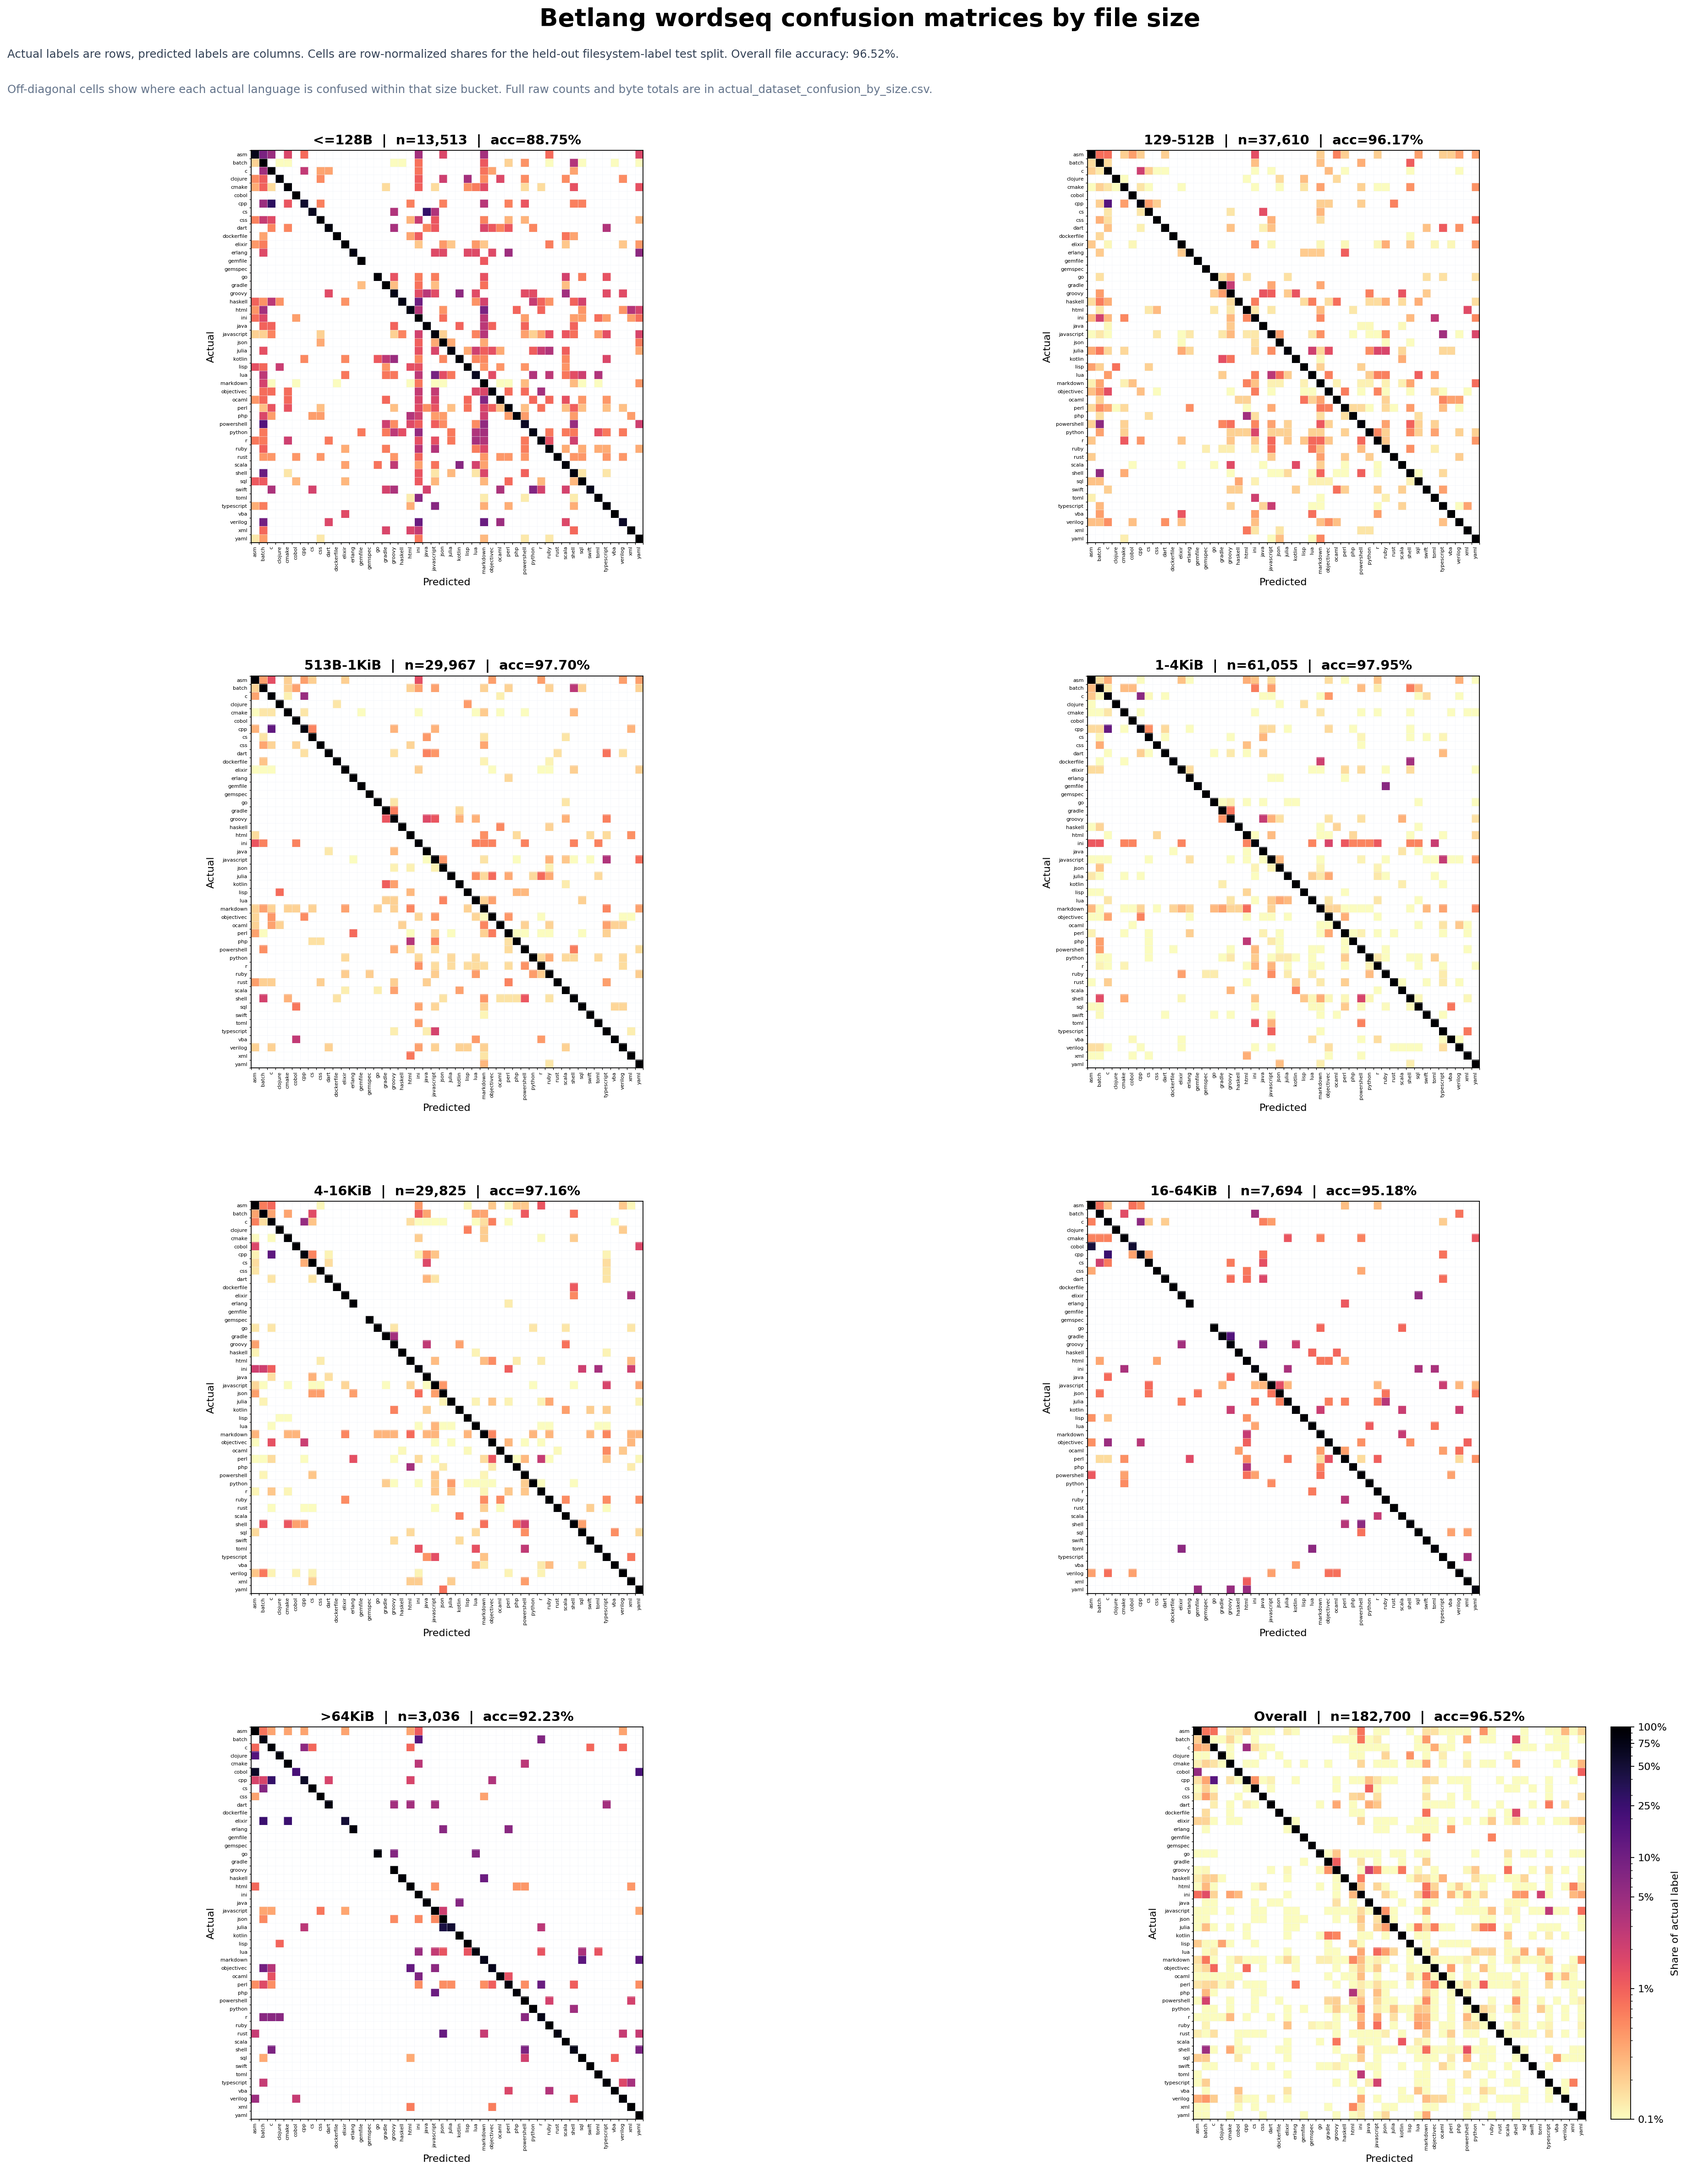
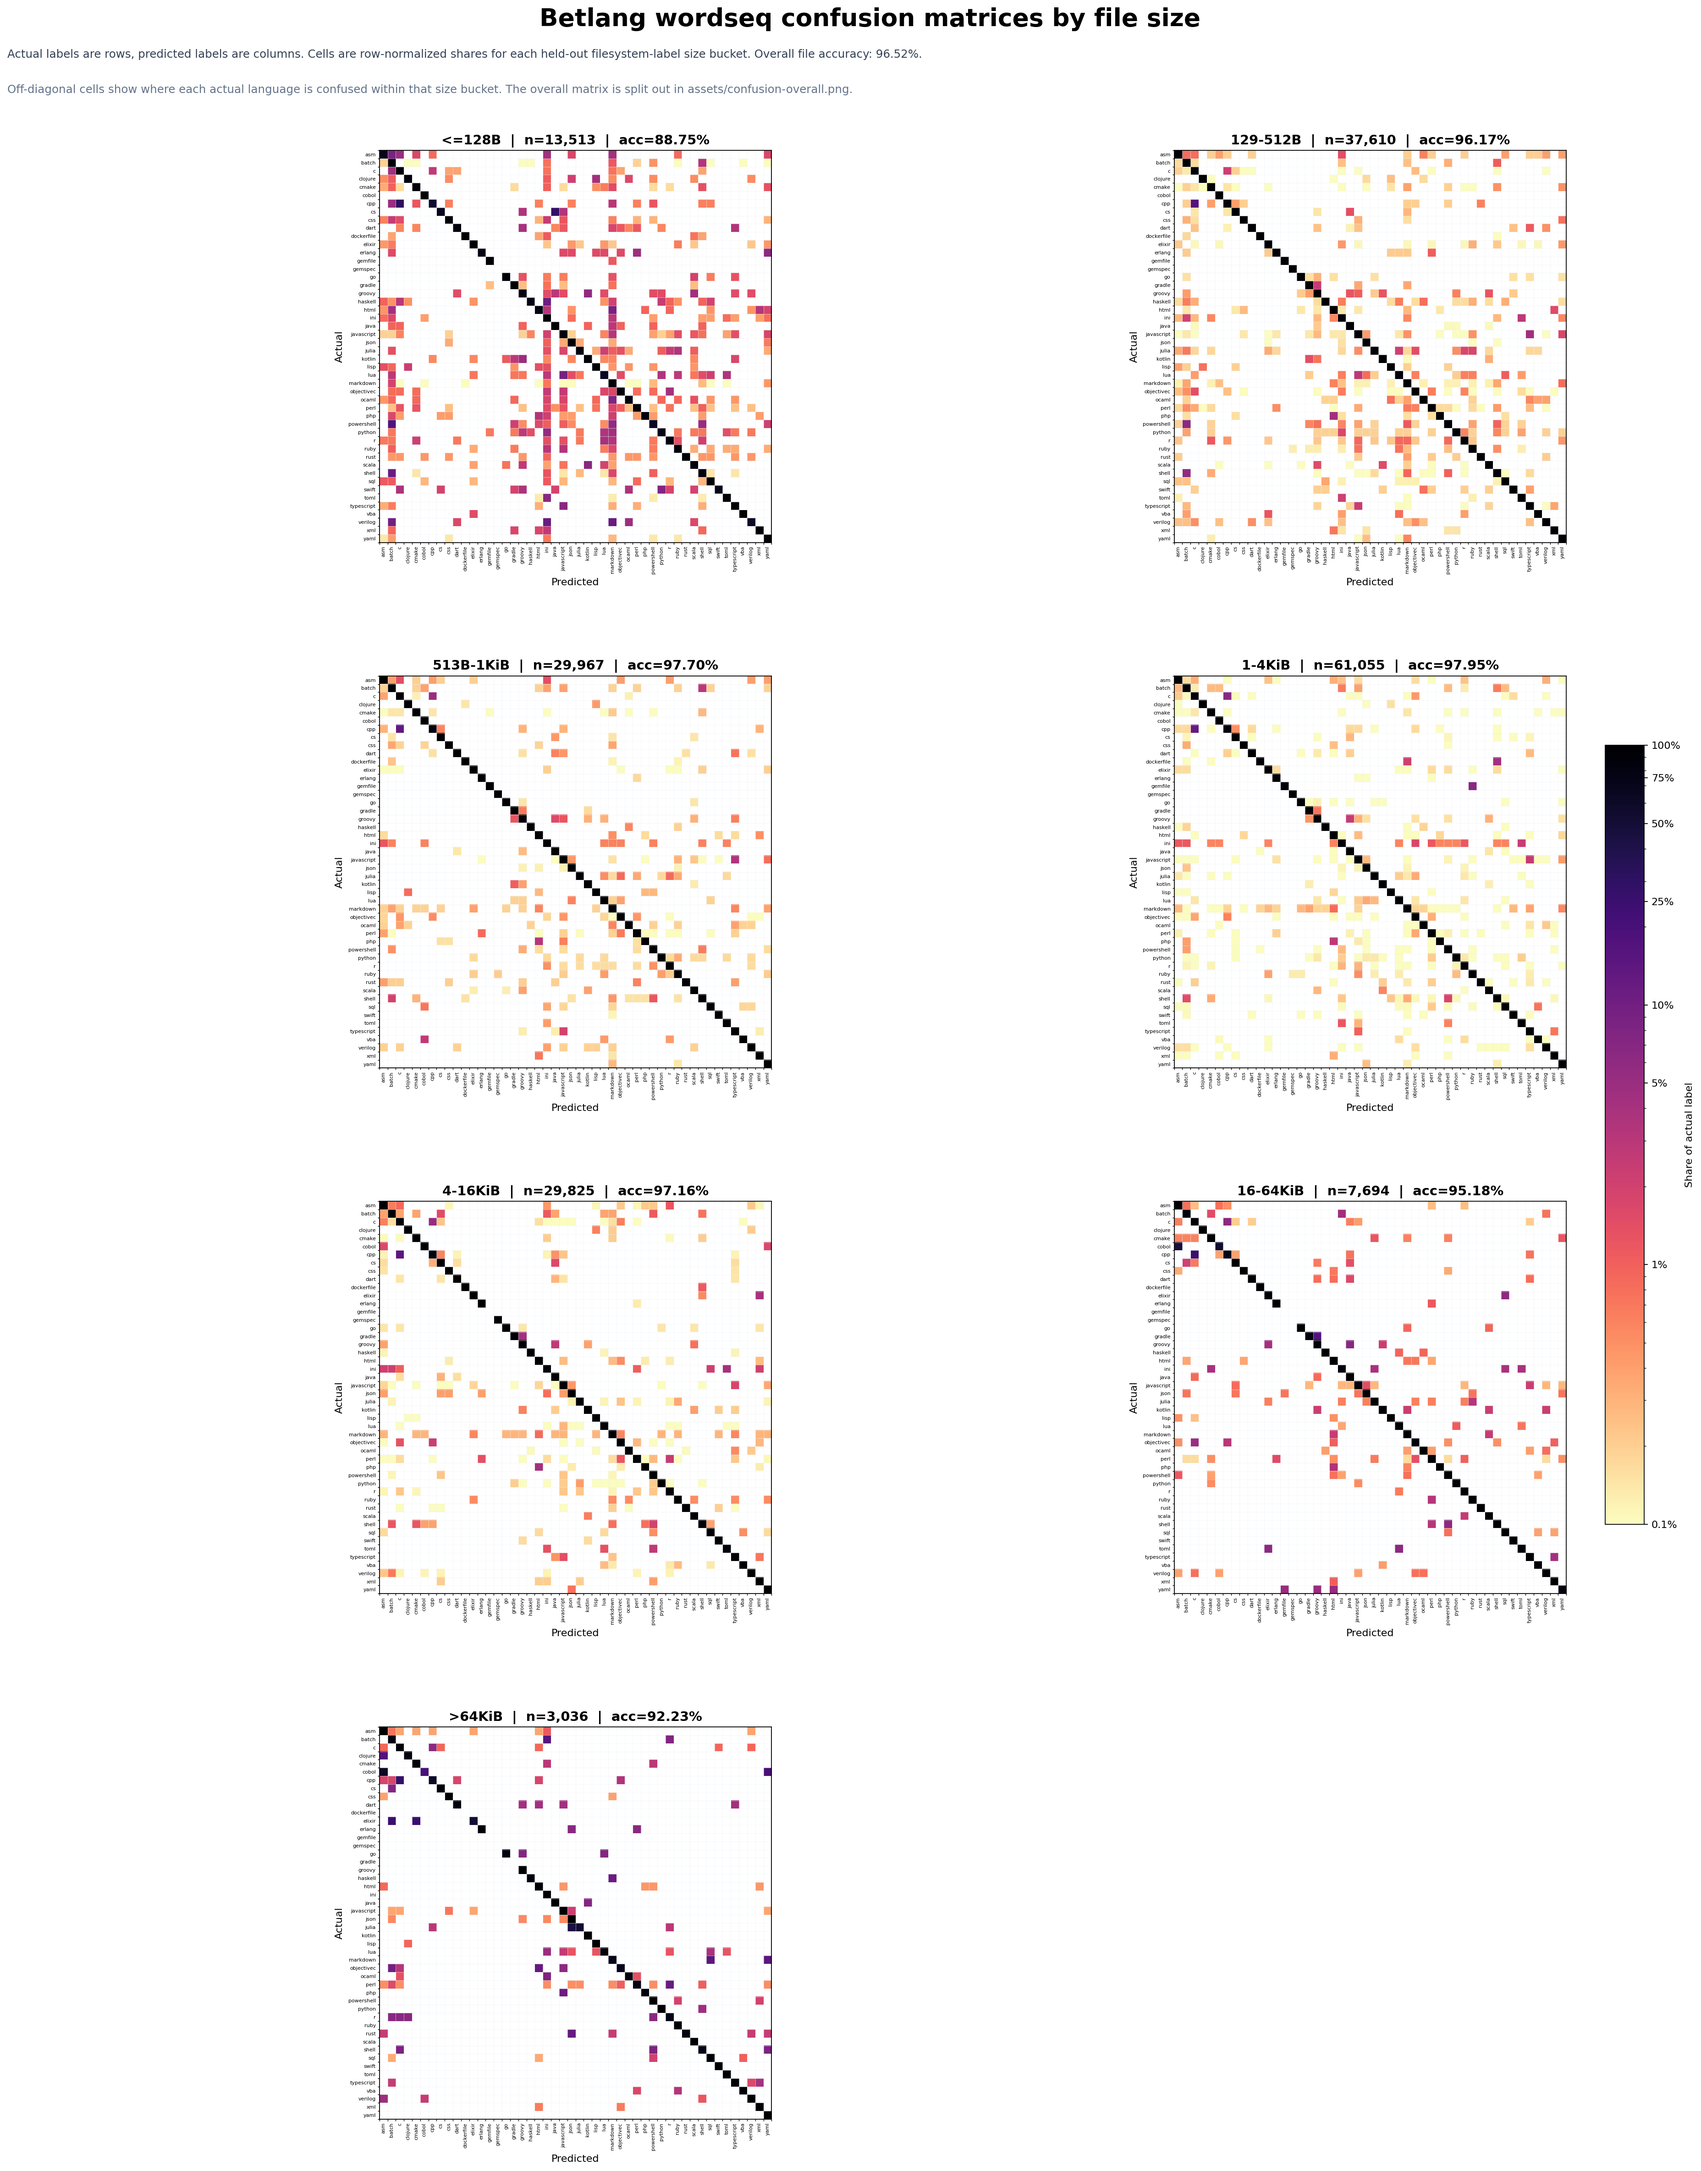
Split overall confusion matrix image

diff --git a/scripts/confusion_by_size.py b/scripts/confusion_by_size.py
@@ -620,56 +620,57 @@ def format_bytes(value: int) -> str:
     raise AssertionError
 
 
-def render_png(
-    path: Path,
-    matrices: list[np.ndarray],
-    labels: list[str],
-    fs_accuracy: float,
-) -> None:
+def plot_confusion_panel(ax, title: str, matrix: np.ndarray, labels: list[str], cmap) -> object:
+    row_sums = matrix.sum(axis=1, keepdims=True)
+    with np.errstate(divide="ignore", invalid="ignore"):
+        normalized = np.divide(
+            matrix,
+            row_sums,
+            out=np.zeros_like(matrix, dtype=np.float64),
+            where=row_sums != 0,
+        )
+    masked = np.ma.masked_where(normalized <= 0, normalized)
+    image = ax.imshow(masked, cmap=cmap, norm=LogNorm(vmin=0.001, vmax=1.0), interpolation="nearest")
+    total = int(matrix.sum())
+    acc = float(np.trace(matrix) / total) if total else 0.0
+    ax.set_title(f"{title}  |  n={total:,}  |  acc={acc * 100:.2f}%", fontsize=13, weight="bold")
+    ax.set_xticks(np.arange(len(labels)))
+    ax.set_yticks(np.arange(len(labels)))
+    ax.set_xticklabels(labels, rotation=90, fontsize=5)
+    ax.set_yticklabels(labels, fontsize=5)
+    ax.set_xlabel("Predicted", fontsize=10)
+    ax.set_ylabel("Actual", fontsize=10)
+    ax.set_xticks(np.arange(-0.5, len(labels), 1), minor=True)
+    ax.set_yticks(np.arange(-0.5, len(labels), 1), minor=True)
+    ax.grid(which="minor", color="#eef2f7", linewidth=0.25)
+    ax.tick_params(length=0)
+    return image
+
+
+def configure_colorbar(fig, image, axes) -> None:
+    cbar = fig.colorbar(image, ax=axes, fraction=0.025, pad=0.025)
+    cbar.set_label("Share of actual label", fontsize=10)
+    cbar.set_ticks([0.001, 0.01, 0.05, 0.10, 0.25, 0.50, 0.75, 1.0])
+    cbar.set_ticklabels(["0.1%", "1%", "5%", "10%", "25%", "50%", "75%", "100%"])
+
+
+def render_size_png(path: Path, matrices: list[np.ndarray], labels: list[str], fs_accuracy: float) -> None:
     cmap = plt.get_cmap("magma_r").copy()
     cmap.set_bad("white")
     fig, axes = plt.subplots(4, 2, figsize=(24, 30), dpi=160)
     axes_flat = axes.ravel()
     image = None
 
-    def plot_panel(ax, title: str, matrix: np.ndarray) -> None:
-        nonlocal image
-        row_sums = matrix.sum(axis=1, keepdims=True)
-        with np.errstate(divide="ignore", invalid="ignore"):
-            normalized = np.divide(
-                matrix,
-                row_sums,
-                out=np.zeros_like(matrix, dtype=np.float64),
-                where=row_sums != 0,
-            )
-        masked = np.ma.masked_where(normalized <= 0, normalized)
-        image = ax.imshow(masked, cmap=cmap, norm=LogNorm(vmin=0.001, vmax=1.0), interpolation="nearest")
-        total = int(matrix.sum())
-        acc = float(np.trace(matrix) / total) if total else 0.0
-        ax.set_title(f"{title}  |  n={total:,}  |  acc={acc * 100:.2f}%", fontsize=13, weight="bold")
-        ax.set_xticks(np.arange(len(labels)))
-        ax.set_yticks(np.arange(len(labels)))
-        ax.set_xticklabels(labels, rotation=90, fontsize=5)
-        ax.set_yticklabels(labels, fontsize=5)
-        ax.set_xlabel("Predicted", fontsize=10)
-        ax.set_ylabel("Actual", fontsize=10)
-        ax.set_xticks(np.arange(-0.5, len(labels), 1), minor=True)
-        ax.set_yticks(np.arange(-0.5, len(labels), 1), minor=True)
-        ax.grid(which="minor", color="#eef2f7", linewidth=0.25)
-        ax.tick_params(length=0)
-
     for ax, bucket, matrix in zip(axes_flat[: len(BUCKETS)], BUCKETS, matrices):
-        plot_panel(ax, bucket[0], matrix)
-    overall_ax = axes_flat[len(BUCKETS)]
-    overall_matrix = np.sum(np.stack(matrices, axis=0), axis=0)
-    plot_panel(overall_ax, "Overall", overall_matrix)
+        image = plot_confusion_panel(ax, bucket[0], matrix, labels, cmap)
+    axes_flat[len(BUCKETS)].axis("off")
 
     fig.suptitle("Betlang wordseq confusion matrices by file size", fontsize=24, weight="bold", y=0.995)
     fig.text(
         0.01,
         0.972,
         "Actual labels are rows, predicted labels are columns. Cells are row-normalized shares "
-        f"for the held-out filesystem-label test split. Overall file accuracy: {fs_accuracy * 100:.2f}%.",
+        f"for each held-out filesystem-label size bucket. Overall file accuracy: {fs_accuracy * 100:.2f}%.",
         fontsize=11,
         color="#334155",
     )
@@ -677,16 +678,42 @@ def render_png(
         0.01,
         0.956,
         "Off-diagonal cells show where each actual language is confused within that size bucket. "
-        "Full raw counts and byte totals are in actual_dataset_confusion_by_size.csv.",
+        "The overall matrix is split out in assets/confusion-overall.png.",
         fontsize=11,
         color="#64748b",
     )
     fig.subplots_adjust(left=0.055, right=0.94, top=0.93, bottom=0.035, hspace=0.34, wspace=0.16)
     if image is not None:
-        cbar = fig.colorbar(image, ax=overall_ax, fraction=0.046, pad=0.035)
-        cbar.set_label("Share of actual label", fontsize=10)
-        cbar.set_ticks([0.001, 0.01, 0.05, 0.10, 0.25, 0.50, 0.75, 1.0])
-        cbar.set_ticklabels(["0.1%", "1%", "5%", "10%", "25%", "50%", "75%", "100%"])
+        configure_colorbar(fig, image, axes_flat[: len(BUCKETS)])
+    fig.savefig(path, bbox_inches="tight")
+    plt.close(fig)
+
+
+def render_overall_png(path: Path, matrix: np.ndarray, labels: list[str], fs_accuracy: float) -> None:
+    cmap = plt.get_cmap("magma_r").copy()
+    cmap.set_bad("white")
+    fig, ax = plt.subplots(figsize=(18, 17), dpi=180)
+    image = plot_confusion_panel(ax, "Overall", matrix, labels, cmap)
+    ax.set_title(
+        f"Overall  |  n={int(matrix.sum()):,}  |  acc={fs_accuracy * 100:.2f}%",
+        fontsize=16,
+        weight="bold",
+    )
+    ax.set_xticklabels(labels, rotation=90, fontsize=7)
+    ax.set_yticklabels(labels, fontsize=7)
+    ax.set_xlabel("Predicted", fontsize=12)
+    ax.set_ylabel("Actual", fontsize=12)
+    fig.suptitle("Betlang wordseq overall confusion matrix", fontsize=24, weight="bold", y=0.995)
+    fig.text(
+        0.01,
+        0.962,
+        "Actual labels are rows, predicted labels are columns. Cells are row-normalized shares "
+        "for the held-out filesystem-label test split.",
+        fontsize=11,
+        color="#334155",
+    )
+    fig.subplots_adjust(left=0.11, right=0.88, top=0.925, bottom=0.12)
+    configure_colorbar(fig, image, ax)
     fig.savefig(path, bbox_inches="tight")
     plt.close(fig)
 
@@ -706,6 +733,7 @@ def main() -> int:
     parser.add_argument("--csv-output", type=Path, default=Path("actual_dataset_confusion_by_size.csv"))
     parser.add_argument("--markdown-output", type=Path, default=Path("actual_dataset_confusion_by_size.md"))
     parser.add_argument("--png-output", type=Path, default=Path("assets/confusion-by-size.png"))
+    parser.add_argument("--overall-png-output", type=Path, default=Path("assets/confusion-overall.png"))
     args = parser.parse_args()
 
     split_meta = json.loads((args.cache_dir / f"{args.split}.json").read_text())
@@ -784,10 +812,13 @@ def main() -> int:
         fs_accuracy,
         dropped_labels,
     )
-    render_png(args.png_output, matrices, labels, fs_accuracy)
+    overall_matrix = np.sum(np.stack(matrices, axis=0), axis=0)
+    render_size_png(args.png_output, matrices, labels, fs_accuracy)
+    render_overall_png(args.overall_png_output, overall_matrix, labels, fs_accuracy)
     print(f"csv_output={args.csv_output}", flush=True)
     print(f"markdown_output={args.markdown_output}", flush=True)
     print(f"png_output={args.png_output}", flush=True)
+    print(f"overall_png_output={args.overall_png_output}", flush=True)
     return 0
 
 

diff --git a/README.md b/README.md
@@ -15,13 +15,19 @@ the training corpus; unsupported empty labels such as `jsonl`, `matlab`, and
 manifest-aligned held-out filesystem-label test split, the exported model
 reaches `test_fs_accuracy=0.965238` with `macro_recall=0.965411`.
 
-## Confusion By File Size
+## Overall Confusion Matrix
 
 The shipped wordseq model is evaluated below on the held-out filesystem-label
-test split, bucketed by file size. Each panel is row-normalized: actual labels
-are rows, predicted labels are columns, and the diagonal is correct
-classification. The final panel is the overall matrix. The full count and byte
-totals are in `actual_dataset_confusion_by_size.csv`, and the per-bucket
-summary is in `actual_dataset_confusion_by_size.md`.
+test split. The matrix is row-normalized: actual labels are rows, predicted
+labels are columns, and the diagonal is correct classification.
+
+![Betlang wordseq overall confusion matrix](assets/confusion-overall.png)
+
+## Confusion By File Size
+
+The same held-out filesystem-label test split is bucketed by file size below.
+Each panel is row-normalized with the same axes as the overall matrix. The full
+count and byte totals are in `actual_dataset_confusion_by_size.csv`, and the
+per-bucket summary is in `actual_dataset_confusion_by_size.md`.
 
 ![Betlang wordseq confusion matrices by file size](assets/confusion-by-size.png)
